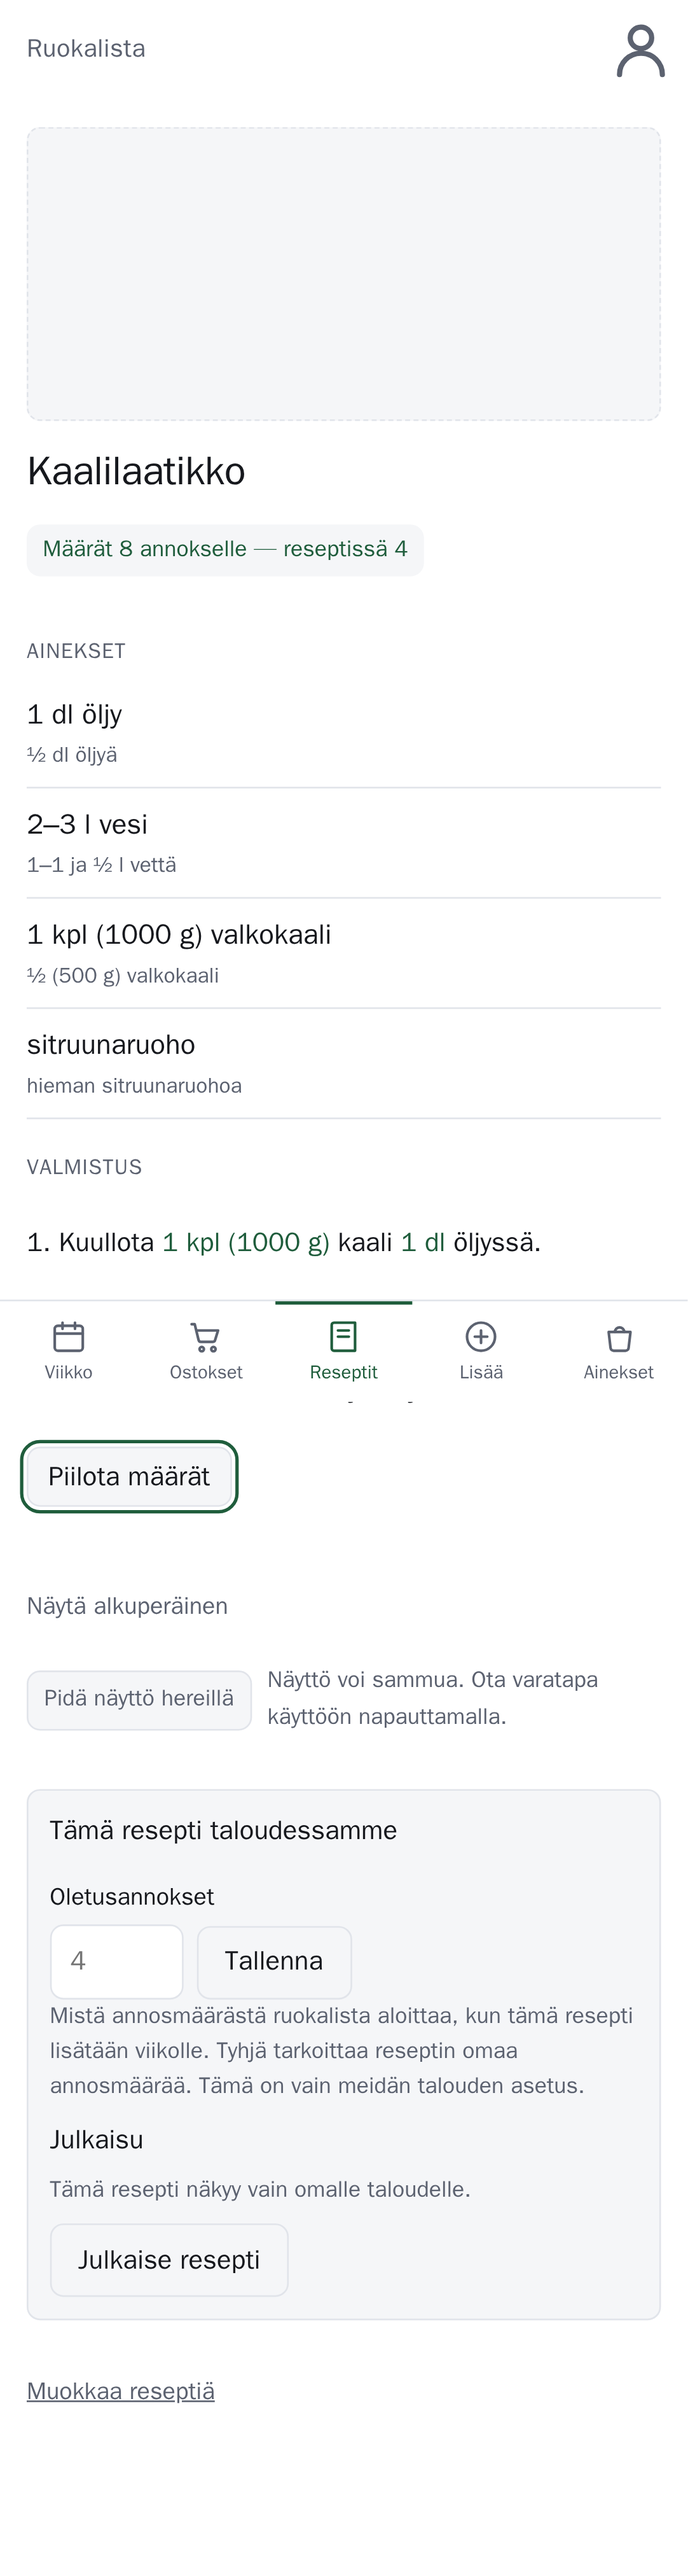
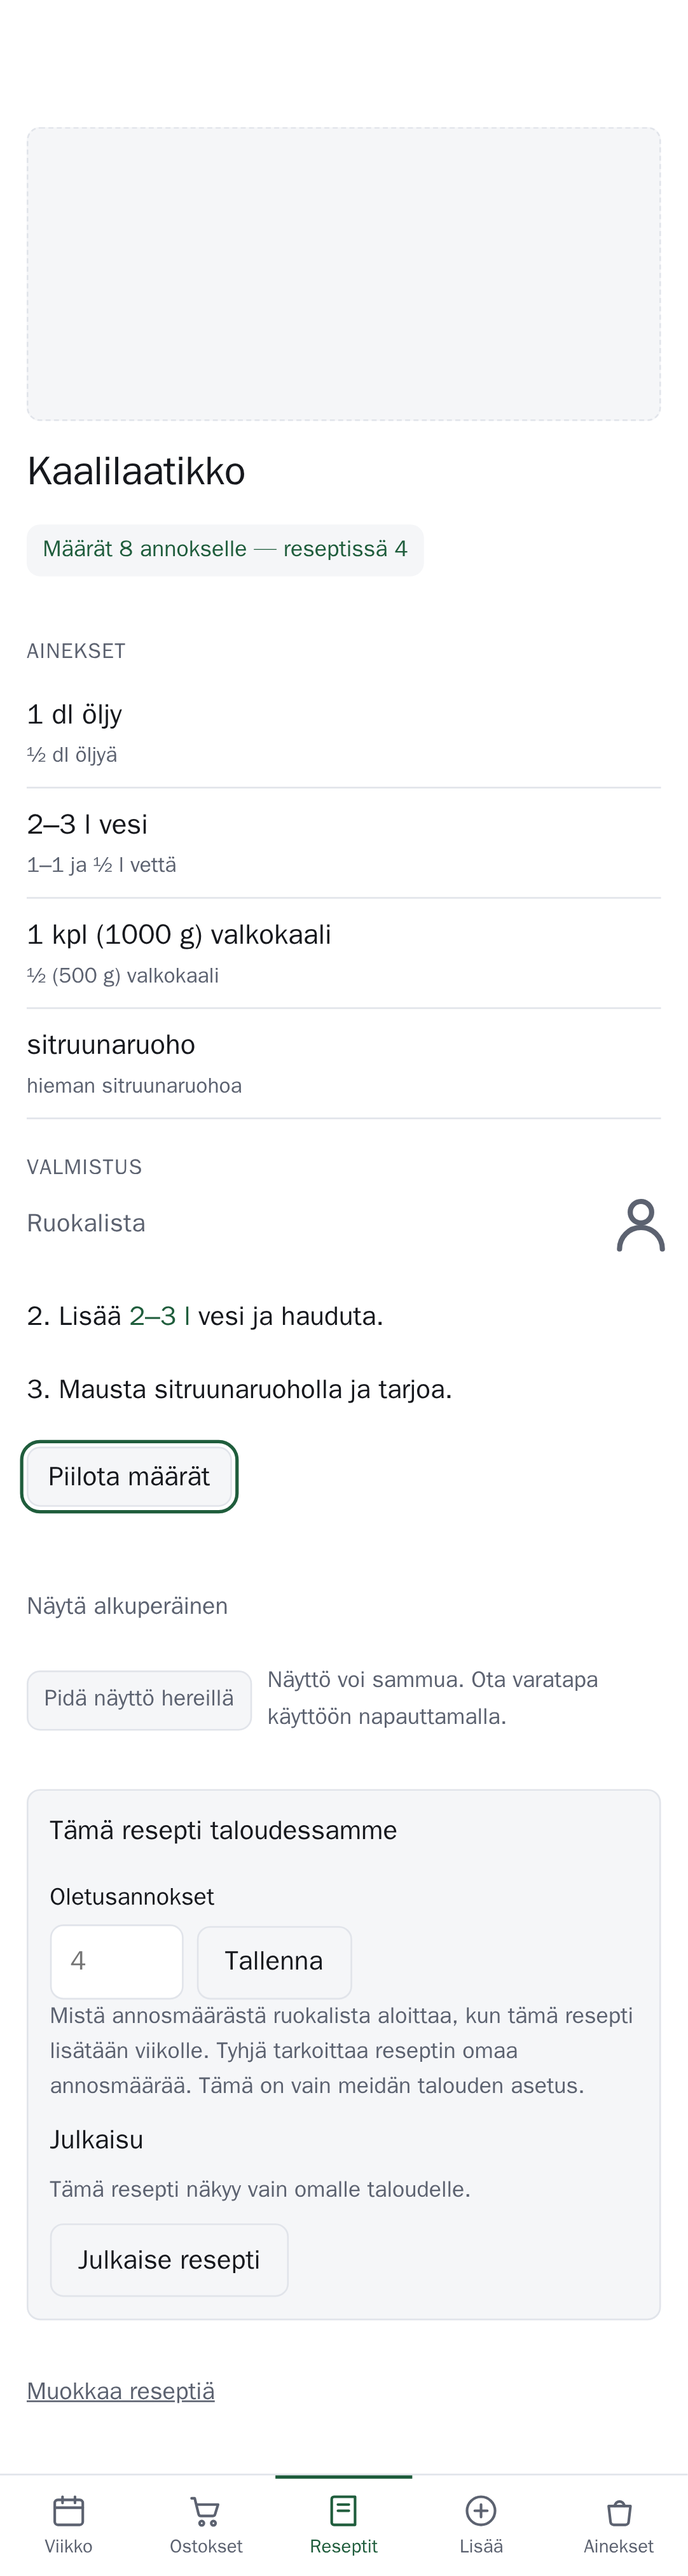
Keep recipe amount toggle from scrolling

diff --git a/tests/ingredient-mentions.spec.ts b/tests/ingredient-mentions.spec.ts
@@ -89,6 +89,32 @@ test("the recipe-wide toggle follows the preparation instructions", async ({
   });
 });
 
+test("the recipe-wide toggle keeps the reading position still", async ({
+  page,
+}) => {
+  await page.goto("/recipes/3");
+
+  const label = page.locator(".reveal-all-label");
+  const revealAll = page.locator(".reveal-all");
+
+  async function expectToggleNotToScroll(checked: boolean) {
+    await label.evaluate((element) => {
+      element.scrollIntoView({ block: "center" });
+    });
+    const before = await page.evaluate(() => window.scrollY);
+    expect(before).toBeGreaterThan(0);
+
+    await label.click();
+    await expect(revealAll).toBeChecked({ checked });
+
+    const after = await page.evaluate(() => window.scrollY);
+    expect(Math.abs(after - before)).toBeLessThanOrEqual(1);
+  }
+
+  await expectToggleNotToScroll(true);
+  await expectToggleNotToScroll(false);
+});
+
 test("a mention starts closed and opens on a tap", async ({ page }) => {
   await page.goto("/recipes/1");
 

diff --git a/src/recipes.ts b/src/recipes.ts
@@ -1129,6 +1129,11 @@ const MENTION_STYLE = html`<style>
     position: absolute; width: 1px; height: 1px;
     margin: 0; padding: 0; opacity: 0; pointer-events: none;
   }
+  /* The master checkbox has to precede every mention for the no-JS sibling
+     selector, while its visible label belongs after the instructions. Keep its
+     focus target in the viewport so activating that distant label cannot scroll
+     the recipe back to the checkbox's document position. */
+  .reveal-all { position: fixed; left: 0; bottom: 0; }
   .reveal-all-label {
     display: inline-flex; align-items: center; min-height: var(--tap-compact);
     padding: 0 .75rem; margin: 0 0 .65rem; cursor: pointer;
